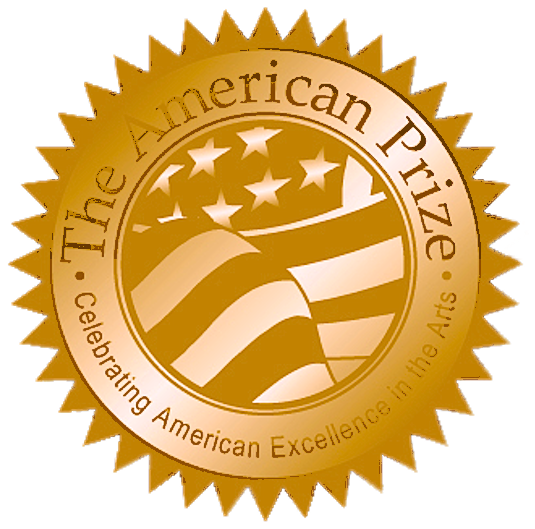
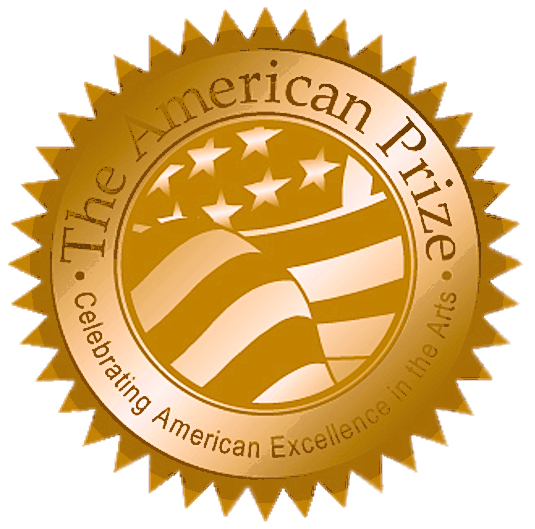
Refine home work grid and American Prize emblem

diff --git a/app/page.tsx b/app/page.tsx
@@ -11,29 +11,18 @@ const selectedWorks = [
   filmMusicItems.find((item) => item.slug === "datamosh")
 ].filter((item): item is FilmMusicItem => Boolean(item));
 
-const [leadWork, ...supportingWorks] = selectedWorks;
-
-type WorkPreviewProps = {
-  item: FilmMusicItem;
-  lead?: boolean;
-};
-
-function WorkPreview({ item, lead = false }: WorkPreviewProps) {
+function WorkPreview({ item }: { item: FilmMusicItem }) {
   return (
     <article>
       <Link href={`/film-music/${item.slug}`} className="group block">
-        <div
-          className={`overflow-hidden border border-black/10 bg-black shadow-[0_20px_44px_rgba(23,18,16,0.08)] ${
-            lead ? "aspect-[16/11]" : "aspect-[16/10]"
-          }`}
-        >
+        <div className="aspect-[16/10] overflow-hidden border border-black/10 bg-black shadow-[0_20px_44px_rgba(23,18,16,0.08)]">
           {item.posterImage ? (
             <div className="relative h-full w-full">
               <Image
                 src={item.posterImage}
                 alt={item.title}
                 fill
-                sizes={lead ? "(max-width: 1024px) 100vw, 58vw" : "(max-width: 1024px) 100vw, 38vw"}
+                sizes="(max-width: 768px) 100vw, 46vw"
                 className="object-cover transition duration-500 group-hover:scale-[1.02]"
               />
               <div className="absolute inset-0 bg-[linear-gradient(180deg,rgba(10,8,8,0.08)_0%,rgba(10,8,8,0.55)_100%)]" />
@@ -45,11 +34,7 @@ function WorkPreview({ item, lead = false }: WorkPreviewProps) {
           {item.sourceTitle ? (
             <p className="font-heading text-[0.8rem] uppercase tracking-[0.22em] text-accent">{item.sourceTitle}</p>
           ) : null}
-          <h3
-            className={`font-display leading-[0.96] text-ink transition-colors group-hover:text-accent ${
-              lead ? "text-[2.2rem] md:text-[2.7rem]" : "text-[1.95rem] md:text-[2.4rem]"
-            }`}
-          >
+          <h3 className="font-display text-[1.95rem] leading-[0.96] text-ink transition-colors group-hover:text-accent md:text-[2.4rem]">
             {item.title}
           </h3>
           {item.homeCaption ? (
@@ -130,25 +115,7 @@ export default function HomePage() {
                         height={529}
                         priority
                         sizes="(max-width: 640px) 76px, (max-width: 768px) 88px, 108px"
-                        className="h-[4.75rem] w-auto drop-shadow-[0_14px_20px_rgba(0,0,0,0.18)] sm:h-[5.5rem] md:h-[6.75rem]"
-                      />
-                      <Image
-                        src="/images/awards/the-juilliard-orchestra-competition-emblem-cropped.png"
-                        alt="Juilliard Orchestra Competition emblem"
-                        width={535}
-                        height={529}
-                        priority
-                        sizes="(max-width: 640px) 76px, (max-width: 768px) 88px, 108px"
-                        className="h-[4.75rem] w-auto drop-shadow-[0_14px_20px_rgba(0,0,0,0.18)] sm:h-[5.5rem] md:h-[6.75rem]"
-                      />
-                      <Image
-                        src="/images/awards/chigiana-emblem-cropped.png"
-                        alt="Chigiana Film Scoring Festival emblem"
-                        width={874}
-                        height={837}
-                        priority
-                        sizes="(max-width: 640px) 76px, (max-width: 768px) 88px, 108px"
-                        className="h-[4.75rem] w-auto drop-shadow-[0_14px_20px_rgba(0,0,0,0.18)] sm:h-[5.5rem] md:h-[6.75rem]"
+                        className="h-[5.05rem] w-auto brightness-[1.05] contrast-[1.06] drop-shadow-[0_14px_20px_rgba(0,0,0,0.18)] sm:h-[5.8rem] md:h-[7.1rem]"
                       />
                     </div>
                   </div>
@@ -161,21 +128,11 @@ export default function HomePage() {
 
       <section className="border-t border-black/8 bg-[linear-gradient(180deg,#ece5da_0%,#e7dfd4_100%)] py-[4.5rem] md:py-24 lg:py-28">
         <Container className="max-w-none px-4 sm:px-5 md:px-[44px] xl:px-[60px]">
-          <div className="grid gap-5 lg:grid-cols-12">
-            {leadWork ? (
-              <div className="lg:col-span-7">
-                <WorkPreview item={leadWork} lead />
-              </div>
-            ) : null}
-
-            {supportingWorks.length > 0 ? (
-              <div className="space-y-5 lg:col-span-5">
-                {supportingWorks.map((item) => (
-                  <WorkPreview key={item.slug} item={item} />
-                ))}
-              </div>
-              ) : null}
-            </div>
+          <div className="grid gap-5 md:grid-cols-2">
+            {selectedWorks.map((item) => (
+              <WorkPreview key={item.slug} item={item} />
+            ))}
+          </div>
 
           <div className="mt-12 flex justify-center md:mt-16">
             <Link
